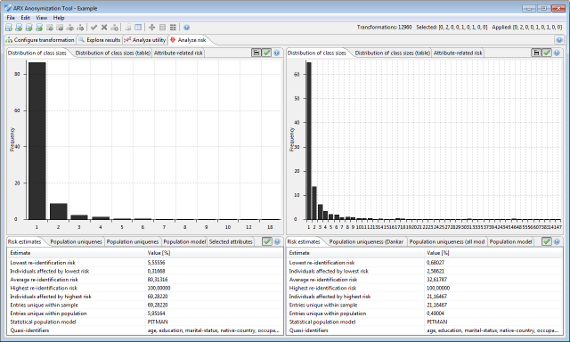
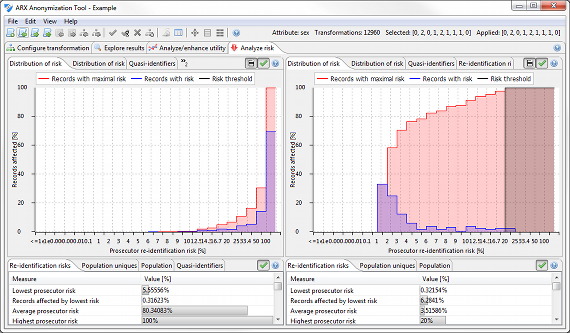
Update help for ARX 3.4.1

diff --git a/help/v3.4.1/perspectives_risk.html b/help/v3.4.1/perspectives_risk.html
@@ -1,9 +1,9 @@
 <div>
     <h4>Analysis of risks</h4>
-    <p>In this perspective, various privacy risks can be analyzed. Measures provided by ARX include 
+    <p>In this perspective, various metrics reflecting privacy risks are presented. Models implemented by ARX include 
        re-identification risks for the prosecutor, journalist and marketer attacker models as well as estimates of population uniqueness, 
        which can be calculated using different statistical models. Moreover, the perspective also provides access to a method for detecting 
        attributes which must be modified or altered when de-identifying data in compliance to the Safe Harbor method of the 
        US Health Insurance Portability and Accountability Act (HIPAA identifiers) and a method for finding potential quasi-identifiers.</p>
-    <img src="/help/v3.4.1/img/risk_view_1.png" alt="Risk analysis" width="570" height="342" />
+    <img src="/help/v3.4.1/img/risk_view_1.png" alt="Risk analysis" width="570" height="333" />
 </div>

diff --git a/help/v3.4.1/risk/classsizes.html b/help/v3.4.1/risk/classsizes.html
@@ -1,6 +1,6 @@
 <div>
-    <h4>Distribution of equivalence class sizes</h4>
-    <p>In this view, the distribution of sizes of equivalence classes (or cells) can be analyzed. The distribution
+    <h4>Distribution of risks</h4>
+    <p>In this view, the distribution of re-identification risks amongs the records of the dataset can be analyzed. The distribution
         is displayed for both input and output data, either as a histogram or as a table.</p>
-    <img src="/help/v3.4.1/img/risk/risk-1.png" alt="Equivalence classes histogram" width="575" height="234" /> 
+    <img src="/help/v3.4.1/img/risk/risk-1.png" alt="Equivalence classes histogram" width="513" height="348" /> 
 </div>
